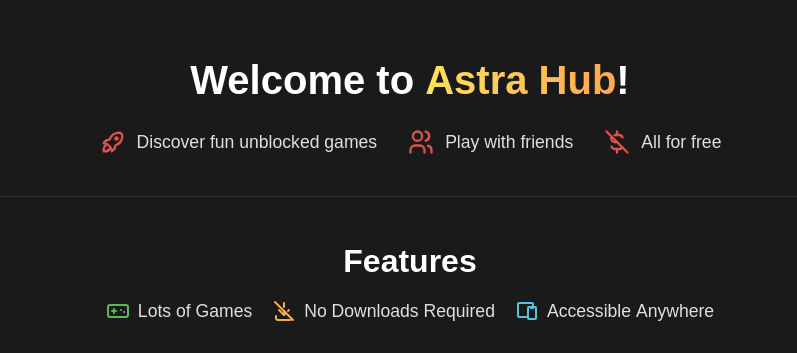
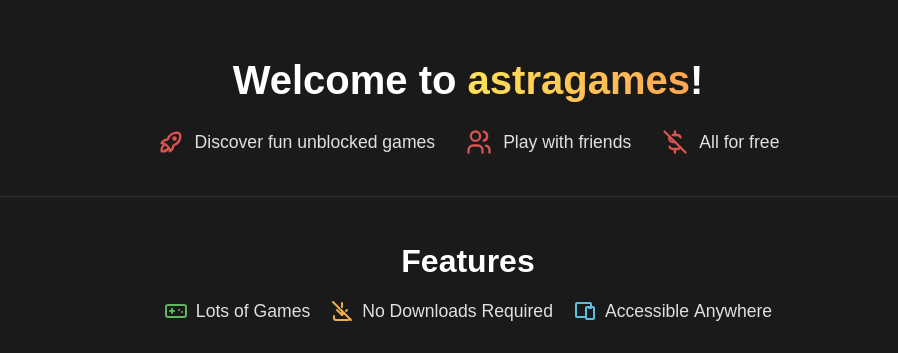
update

diff --git a/features.html b/features.html
@@ -1,8 +1,7 @@
 <div
   style="font-family: 'Arial', sans-serif; text-align: center; padding: 30px; background-color: #1a1a1a; color: #e0e0e0;">
   <h1 style="margin-bottom: 25px; font-size: 2.5em; color: #ffffff;">Welcome to <span
-      style="background: -webkit-linear-gradient(#ffe259, #ffa751); background: linear-gradient(to right, #ffe259, #ffa751); -webkit-background-clip: text; background-clip: text; -webkit-text-fill-color: transparent; font-weight: bold;">Astra
-      Hub</span>!</h1>
+      style="background: -webkit-linear-gradient(#ffe259, #ffa751); background: linear-gradient(to right, #ffe259, #ffa751); -webkit-background-clip: text; background-clip: text; -webkit-text-fill-color: transparent; font-weight: bold;">astragames</span>!</h1>
   <div style="display: flex; justify-content: center; flex-wrap: wrap; gap: 30px; margin-top: 20px;">
     <span style="display: inline-flex; align-items: center; font-size: 1.1em;">
       <svg xmlns="http://www.w3.org/2000/svg" width="28" height="28" viewBox="0 0 24 24" fill="none"
